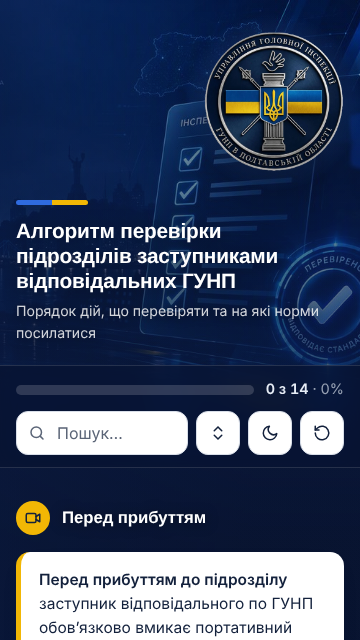
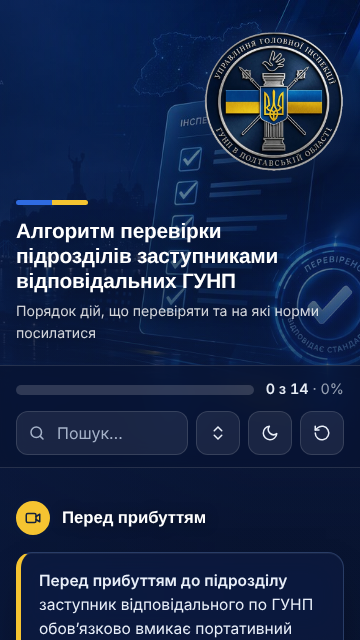
Фон як <img> замість CSS-фону, позначка темної схеми — щоб фон не зникав у режимах затемнення браузера
Claude-Session: https://claude.ai/code/session_01DdKEhSx4jc841n7FytWdUH

diff --git a/method_checklist.html b/method_checklist.html
@@ -5,6 +5,7 @@
 <meta name="viewport" content="width=device-width, initial-scale=1.0">
 <title>Алгоритм перевірки підрозділів заступниками відповідальних ГУНП</title>
 <meta name="theme-color" content="#0B1A3F">
+<meta name="color-scheme" content="dark light">
 <link rel="icon" type="image/png" href="img/favicon.png">
 <link rel="apple-touch-icon" href="img/apple-touch-icon.png">
 <link rel="preconnect" href="https://fonts.googleapis.com">
@@ -63,8 +64,9 @@
 
   * { box-sizing: border-box; }
   html { -webkit-text-size-adjust: 100%; }
+  html { background: #0B1A3F; }
   body {
-    margin: 0; background: #0B1A3F; color: var(--ink); position: relative; min-height: 100vh;
+    margin: 0; background: transparent; color: var(--ink); min-height: 100vh;
     font: 400 16px/1.55 'IBM Plex Sans', system-ui, sans-serif;
     -webkit-font-smoothing: antialiased;
   }
@@ -74,21 +76,23 @@
 
   /* ---------- Фон на всю сторінку ---------- */
   /* Фото й вуаль — фіксовані шари під контентом (background-attachment: fixed не працює на iOS) */
-  .page-bg, .page-veil { position: fixed; inset: 0; z-index: -1; pointer-events: none; }
-  .page-bg {
-    background: #0B1A3F url("img/bg.jpg") no-repeat 72% 30% / cover;
+  .page-bg, .page-veil { position: fixed; inset: 0; z-index: 0; pointer-events: none; overflow: hidden; }
+  .page-bg { background: #0B1A3F; }
+  .page-bg img {
+    width: 100%; height: 100%; object-fit: cover; object-position: 72% 30%; display: block;
   }
   .page-veil {
     background:
       linear-gradient(to right, rgba(11,26,63,.55), rgba(11,26,63,.15) 70%),
       linear-gradient(to bottom, rgba(11,26,63,.1) 0, rgba(11,26,63,.55) 45vh, rgba(8,18,44,.86) 85vh);
   }
-  @media (max-width: 960px) { .page-bg { background-image: url("img/bg-960.jpg"); } }
+  /* увесь контент — над фоновими шарами */
+  .masthead, main, footer { position: relative; z-index: 1; }
 
   .wrap { max-width: 760px; margin: 0 auto; padding: 0 16px; }
 
   /* ---------- Шапка ---------- */
-  .masthead { color: #fff; position: relative; }
+  .masthead { color: #fff; }
   .masthead .wrap { padding-top: clamp(150px, 30vw, 330px); padding-bottom: 26px; }
   .masthead h1 {
     font: 800 clamp(1.3rem, 3.8vw, 1.9rem)/1.2 'Montserrat', sans-serif;
@@ -261,7 +265,10 @@
 
   /* ---------- Мобільна ---------- */
   @media (max-width: 560px) {
-    .page-bg { background-size: auto min(72vh, 600px); background-position: 70% top; }
+    .page-bg img {
+      position: absolute; top: 0; width: auto; height: min(72vh, 600px); max-width: none;
+      left: calc((100vw - min(108vh, 900px)) * .7);
+    }
     .masthead .wrap { padding-top: 200px; padding-bottom: 22px; }
     .emblem { width: 140px; top: 32px; right: 16px; }
     .masthead p { font-size: .88rem; }
@@ -304,7 +311,10 @@
 </head>
 <body>
 
-<div class="page-bg" role="img" aria-label="Нічне місто, службовий автомобіль поліції та інспекційний чекліст"></div>
+<div class="page-bg">
+  <img src="img/bg.jpg" srcset="img/bg-960.jpg 960w, img/bg.jpg 1536w" sizes="(max-width: 560px) 900px, 100vw"
+       alt="" fetchpriority="high" decoding="async">
+</div>
 <div class="page-veil" aria-hidden="true"></div>
 
 <header class="masthead">
